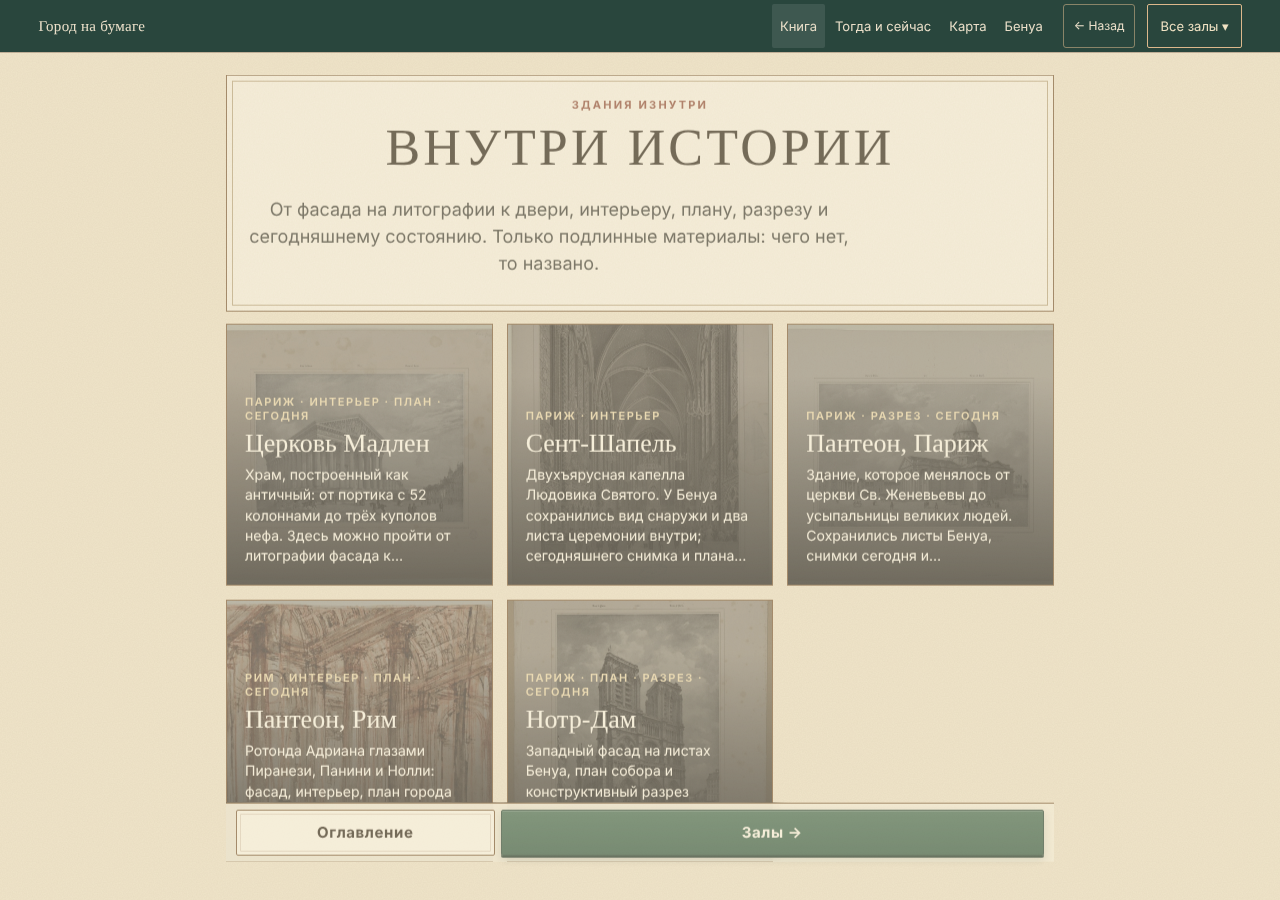
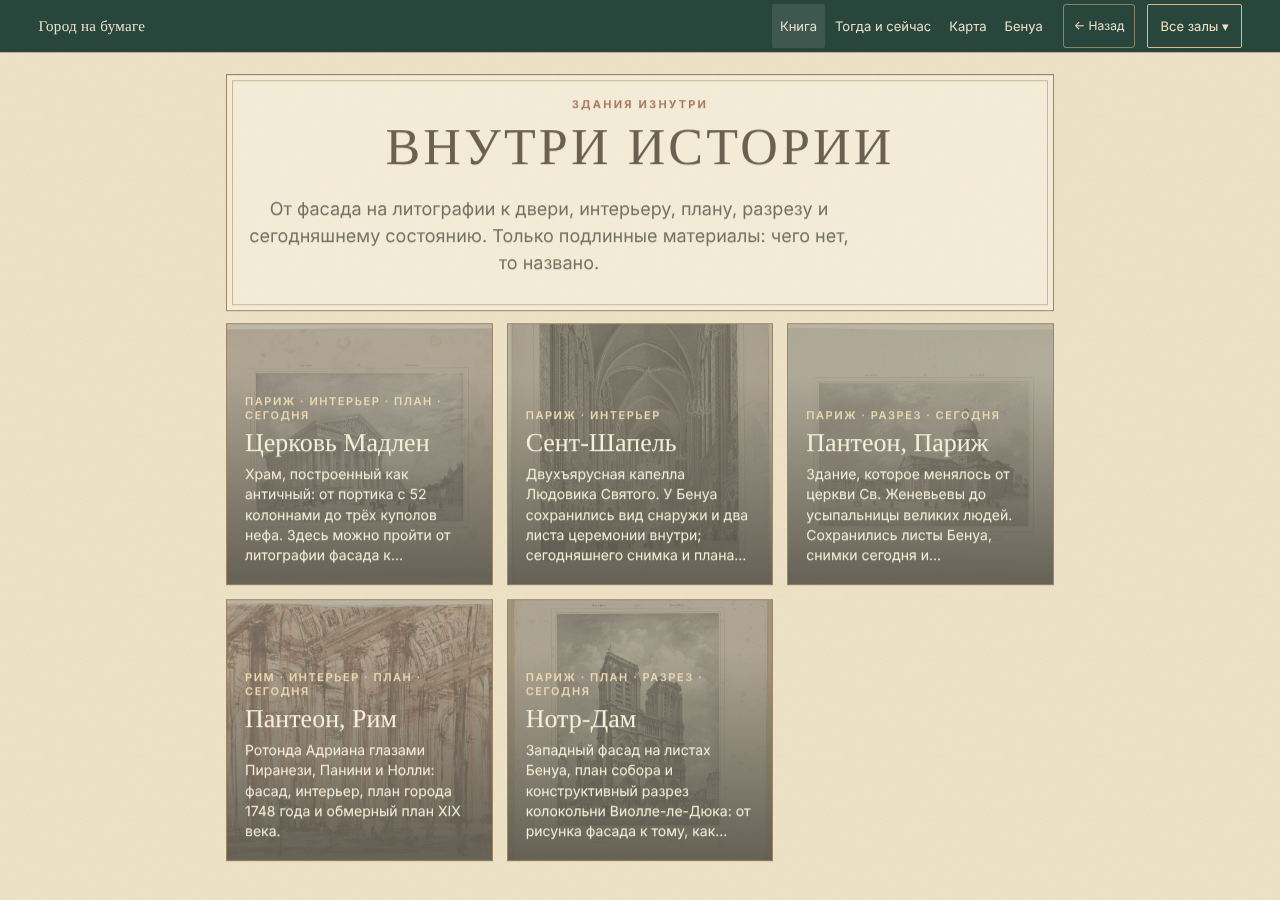
Three illustrated stories (scenes, dialogue, biography of a building) from record-only text; tests; docs
Claude-Session: https://claude.ai/code/session_01LdHt8Et5Uy4nRGp7UuZQir

diff --git a/book/inside.js b/book/inside.js
@@ -17,7 +17,9 @@
     const cover = (b) => { const w = g.by.get(b.facade[0]); return w ? w.i : (b.extras[0] || b.plan[0] || {}).i; };
     B.app().innerHTML = `<div class="page-enter"><section class="chead compact"><p class="eyebrow">Здания изнутри</p><h1>Внутри истории</h1><p class="lede">От фасада на литографии к двери, интерьеру, плану, разрезу и сегодняшнему состоянию. Только подлинные материалы: чего нет, то названо.</p></section>
       <div class="exlist">${d.buildings.map((b) => `<a class="exhall" href="#/inside/${E(b.id)}"><img src="${E(cover(b))}" alt="" loading="lazy"><span class="cap"><span class="where">${E(b.city)} · ${[b.interior.length + b.extras.length ? "интерьер" : "", b.plan.length ? "план" : "", b.section.length ? "разрез" : "", b.modern.length ? "сегодня" : ""].filter(Boolean).join(" · ") || "фасад"}</span><b>${E(b.title)}</b><span class="hook">${E(B.cut(b.lede, 130))}</span></span></a>`).join("")}</div>
+      <h2>Истории</h2><div class="exlist" id="storyList"></div>
       ${B.dock({ href: "#/halls", t: "Залы" }, { href: "#/", t: "Оглавление" })}</div>`;
+    try { const S = await loadStories(); document.getElementById("storyList").innerHTML = S.stories.map((x) => { const f = (x.scenes && x.scenes[0] && x.scenes[0].work) || (x.turns && x.turns[0].work) || (x.pieces && x.pieces[0].work); const w = g.by.get(f); return `<a class="exhall" href="#/story/${E(x.id)}"><img src="${E(w ? w.i : "")}" alt="" loading="lazy"><span class="cap"><span class="where">${E(x.city)} · ${{ scenes: "сцены", dialogue: "диалог", biography: "биография здания" }[x.layout]}</span><b>${E(x.title)}</b><span class="hook">${E(B.cut(x.lede, 120))}</span></span></a>`; }).join(""); } catch (e) { /* stories are optional */ }
   }
 
   function journey(b) {
@@ -58,5 +60,27 @@
     wireDoor();
     document.querySelectorAll("[data-go]").forEach((a) => a.addEventListener("click", (e) => { e.preventDefault(); const t = document.getElementById(a.dataset.go === "today" ? "today" : a.dataset.go); if (t && t.scrollIntoView) t.scrollIntoView({ behavior: "smooth", block: "start" }); }));
   }
-  Object.assign(B.routes, { inside: (arg) => (arg ? viewBuilding(arg) : viewList()) });
+
+  /* three illustrated stories, three compositions */
+  let ST = null;
+  const loadStories = () => ST || (ST = fetch("stories.json").then((r) => r.json()));
+  const resolve = (it, g, d) => {
+    if (it.work) { const w = g.by.get(it.work); return w && { i: w.i, th: w.th, w: w.w, h: w.h, title: ruTitle(w), sub: `${String(w.a).split(";")[0].replace(/\s*\(.*$/, "")}${w.d ? " · " + w.d : ""}`, credit: `${w.m} · ${w.r}`, link: "#/art/" + w.id }; }
+    const b = d.buildings.find((x) => x.id === (it.extra || it.modern || {}).building); if (!b) return null;
+    if (it.extra) { const pool = b.extras.concat(b.plan, b.section).filter((x) => !it.extra.kind || x.kind === it.extra.kind), x = pool[it.extra.n || 0]; return x && { i: x.i, title: x.caption, sub: x.credit, credit: x.licence, link: null }; }
+    const m = b.modern[it.modern.n || 0]; return m && { i: m.i, title: m.caption, sub: m.credit, credit: m.licence, link: null };
+  };
+  const plate = (x, cls = "") => x ? `<figure class="exfig insfig ${cls}">${x.link ? `<a class="eximg" href="${E(x.link)}">` : '<div class="eximg">'}<img src="${E(x.i)}" alt="${E(x.title)}" loading="lazy">${x.link ? "</a>" : "</div>"}<figcaption class="excap"><b>${E(x.title)}</b><span>${E(x.sub)}</span><span class="small">${E(x.credit)}</span></figcaption></figure>` : "";
+  async function viewStory(id) {
+    let S, g, d; try { [S, g, d] = await Promise.all([loadStories(), B.loadGallery(), load()]); } catch (e) { return B.notFound(); }
+    const st = S.stories.find((x) => x.id === id); if (!st) return B.notFound();
+    B.setTitle(st.title); B.crumbs([{ t: "Книга", href: "#/" }, { t: "Внутри истории", href: "#/inside" }, { t: st.title }]);
+    let body = "";
+    if (st.layout === "scenes") body = st.scenes.map((s, n) => { const x = resolve(s, g, d); return x ? `<section class="scene" style="--n:${n}"><p class="eyebrow">${E(s.kicker)}</p>${plate(x, "sceneimg")}</section>` : ""; }).join("");
+    else if (st.layout === "dialogue") body = `<div class="dialog">${st.turns.map((t) => { const x = resolve(t, g, d); return x ? `<div class="turn ${t.side}">${plate(x)}</div>` : ""; }).join("")}</div>`;
+    else body = `<ol class="bio">${st.events.map((e, n) => `<li class="bioev"><span class="when">${E(e.date)}</span><p>${E(e.text)}</p><a class="src" href="${E(B.safe(e.source))}" target="_blank" rel="noopener">${E(e.source_name)} ↗</a>${st.pieces.filter((p) => p.after === n).map((p) => `<div class="piece">${plate(resolve(p, g, d))}<p class="small">${E(p.label)}</p></div>`).join("")}</li>`).join("")}</ol>`;
+    const idx = S.stories.indexOf(st), nx = S.stories[idx + 1], pv = S.stories[idx - 1];
+    B.app().innerHTML = `<div class="page-enter story story-${E(st.layout)}"><section class="chead compact"><p class="eyebrow">${E(st.city)} · история</p><h1>${E(st.title)}</h1><p class="lede">${E(st.lede)}</p></section>${body}<p class="small closing">${E(st.closing)}</p>${B.dock(nx ? { href: "#/story/" + nx.id, t: nx.title, small: "Следующая история" } : { href: "#/inside", t: "Здания" }, pv ? { href: "#/story/" + pv.id, t: pv.title } : { href: "#/inside", t: "Здания" })}</div>`;
+  }
+  Object.assign(B.routes, { inside: (arg) => (arg ? viewBuilding(arg) : viewList()), story: viewStory });
 })();

diff --git a/tests/browser/qa_inside.js b/tests/browser/qa_inside.js
@@ -16,7 +16,7 @@ const check = (name, ok, detail = "") => { results.push(ok); console.log(`${ok ?
     const loaded = (sel) => page.waitForFunction((s) => { const a = [...document.querySelectorAll(s)]; return a.length > 0 && a.every((i) => i.complete && i.naturalWidth > 0); }, sel, { timeout: 20000 });
     await page.goto(base + "#/inside", { waitUntil: "domcontentloaded" });
     await page.waitForSelector(".exhall");
-    check(`${v.name}: five buildings are listed`, (await page.locator(".exhall").count()) === 5); await shot("20-inside-list");
+    check(`${v.name}: five buildings are listed`, (await page.locator(".exlist:not(#storyList) .exhall").count()) === 5); await shot("20-inside-list");
     await page.goto(base + "#/inside/madeleine", { waitUntil: "domcontentloaded" });
     await page.waitForSelector("#doorStage");
     await page.locator("#facade img").first().evaluate((i) => i.scrollIntoView());
@@ -42,6 +42,19 @@ const check = (name, ok, detail = "") => { results.push(ok); console.log(`${ok ?
     await page.waitForSelector("#plan");
     await page.locator("#plan").scrollIntoViewIfNeeded(); await loaded("#plan img");
     check(`${v.name}: Roman Pantheon has facade views, Panini interior, two plans`, (await page.locator("#facade .rt").count()) >= 3 && (await page.locator("#plan .insfig").count()) === 2 && (await page.locator("#interior .insfig").count()) === 1);
+    await page.goto(base + "#/inside", { waitUntil: "domcontentloaded" });
+    await page.waitForSelector("#storyList .exhall");
+    check(`${v.name}: three stories with three different compositions are offered`, (await page.locator("#storyList .exhall").count()) === 3);
+    for (const [sid, sel, min] of [["prazdniki-venetsii", ".scene .sceneimg img", 5], ["dialog-panteon", ".turn img", 6], ["biografiya-madlen", ".bioev", 7]]) {
+      await page.goto(base + "#/story/" + sid, { waitUntil: "domcontentloaded" });
+      await page.waitForSelector(sel);
+      await page.waitForFunction(([s, m]) => document.querySelectorAll(s).length >= m, [sel, min]);
+      if (sid !== "biografiya-madlen") { await page.locator(sel).first().evaluate((i) => i.scrollIntoView()); await loaded(sel + ":nth-of-type(1)").catch(() => {}); }
+      check(`${v.name}: story ${sid} renders its composition`, (await page.locator(sel).count()) >= min);
+      if (sid === "dialog-panteon") await shot("25-story-dialogue");
+      if (sid === "biografiya-madlen") { check(`${v.name}: biography events all carry a source link`, (await page.locator(".bioev .src[href^=http]").count()) === 7); await shot("26-story-biography"); }
+      if (sid === "prazdniki-venetsii") await shot("27-story-scenes");
+    }
     check(`${v.name}: no horizontal scroll and no page errors`, (await page.evaluate(() => document.documentElement.scrollWidth <= innerWidth + 4)) && errs.length === 0, errs.join("|"));
     await ctx.close();
   }

diff --git a/book/book.css b/book/book.css
@@ -347,3 +347,8 @@ body.showmode .dock,body.showmode .museum-nav,body.showmode header,body.showmode
 .door img{position:absolute;inset:0;width:100%;height:100%;object-fit:cover;will-change:transform,opacity}.door .dA{transform-origin:var(--dx) var(--dy)}.door .dB{opacity:0}
 .dmark{position:absolute;left:var(--dx);top:var(--dy);width:14px;height:14px;margin:-7px 0 0 -7px;border:2px solid #fff9;border-radius:50%;pointer-events:none;animation:dm 1.6s ease-in-out infinite}@keyframes dm{50%{transform:scale(1.8);opacity:.2}}
 @media(prefers-reduced-motion:reduce){.dmark{animation:none}}
+/* stories */
+.scene{margin:28px 0;min-height:60vh;display:flex;flex-direction:column;justify-content:center}.scene .sceneimg img{max-height:78vh;object-fit:contain;margin:0 auto;display:block}.scene .sceneimg{background:#1d1c19;color:#f4ead2;padding:10px}.scene .excap{color:#f4ead2}
+.dialog{display:grid;gap:18px;margin:18px 0}.turn{max-width:92%}.turn.r{margin-left:auto}.turn.l{margin-right:auto}@media(min-width:820px){.dialog{grid-template-columns:1fr 1fr;gap:26px 20px}.turn{max-width:none}.turn.r{margin-top:48px}}
+.bio{list-style:none;margin:16px 0;padding:0 0 0 18px;border-left:3px solid var(--lt-sepia)}.bioev{position:relative;margin:0 0 22px;padding-left:12px}.bioev::before{content:"";position:absolute;left:-26px;top:6px;width:12px;height:12px;border-radius:50%;background:var(--lt-brick)}
+.bioev .when{font:600 12px var(--lt-sans);letter-spacing:.12em;text-transform:uppercase;color:var(--lt-brick)}.bioev p{margin:2px 0 4px}.piece{margin:12px 0;max-width:520px}.closing{margin:20px 0}

diff --git a/tools/world/build_stories.py b/tools/world/build_stories.py
@@ -1,0 +1,40 @@
+# ruff: noqa: E501
+"""Three illustrated stories with different compositions. Text comes only from the records (title, date, technique, museum) and from
+the sourced place story of the book; no event is added from memory."""
+from __future__ import annotations
+
+import json
+from pathlib import Path
+
+BOOK = Path(__file__).resolve().parents[2] / "book"
+
+
+def main() -> int:
+    inside = {b["id"]: b for b in json.loads((BOOK / "inside.json").read_text(encoding="utf-8"))["buildings"]}
+    places = {p["id"]: p for p in json.loads((BOOK / "places.json").read_text(encoding="utf-8"))["places"]}
+    mad = places["madeleine"]
+    rome = inside["pantheon-rome"]
+    S = [
+        {"id": "prazdniki-venetsii", "layout": "scenes", "title": "Праздники Венеции: пять сцен", "city": "Венеция",
+         "lede": "Площадь, набережная и лагуна в дни торжеств: четыре листа серии праздников дожей по Каналетто и сцена площади Франческо Гварди. Подписи составлены по записям музеев.",
+         "scenes": [{"work": "ex-nga-139341", "kicker": "Сцена 1"}, {"work": "ex-nga-103816", "kicker": "Сцена 2"}, {"work": "ex-nga-47091", "kicker": "Сцена 3"}, {"work": "oa-nga-103851", "kicker": "Сцена 4"}, {"work": "ex-met-338925", "kicker": "Сцена 5 · другой мастер"}],
+         "closing": "Первые четыре листа хранит Национальная галерея искусства, пятый Метрополитен. Название места и дата в каждой подписи взяты из записи музея; кто именно гравировал лист по рисунку, смотрите в записи."},
+        {"id": "dialog-panteon", "layout": "dialogue", "title": "Диалог мастеров: Пантеон", "city": "Рим",
+         "lede": "Один и тот же храм на гравюре, на картине, на плане и на снимке сегодня.",
+         "turns": [{"work": "ex-met-348799", "side": "l"}, {"extra": {"building": "pantheon-rome", "kind": "interior-painting"}, "side": "r"}, {"work": "oa-met-363427", "side": "l"}, {"work": "oa-cma-v3-104365", "side": "r"},
+                   {"extra": {"building": "pantheon-rome", "kind": "plan", "n": 0}, "side": "l"}, {"modern": {"building": "pantheon-rome", "n": 0}, "side": "r"}],
+         "closing": "Внутри истории: " + rome["lede"]},
+        {"id": "biografiya-madlen", "layout": "biography", "title": "Биография здания: Мадлен", "city": "Париж",
+         "lede": mad["lede_ru"],
+         "events": [{"date": f["date"], "text": f["text_ru"], "source": f["source_url"], "source_name": f["source_name"]} for f in mad["facts"]],
+         "pieces": [{"after": 4, "work": "bs-parismusees-320295651", "label": "Фасад на листе серии «Vues de Paris»"}, {"after": 4, "work": "bs-parismusees-320295653", "label": "Интерьер на листе № 42"},
+                    {"after": 4, "extra": {"building": "madeleine", "kind": "plan"}, "label": "План церкви (чертёж из собрания Paris Musées; дата в источнике не указана)"}, {"after": 6, "modern": {"building": "madeleine", "n": 1}, "label": "Неф сегодня"}],
+         "closing": "Что неизвестно: " + " ".join(mad["unknowns_ru"][:2])},
+    ]
+    (BOOK / "stories.json").write_text(json.dumps({"version": 1, "stories": S}, ensure_ascii=False, separators=(",", ":")), encoding="utf-8")
+    print([s["id"] for s in S])
+    return 0
+
+
+if __name__ == "__main__":
+    raise SystemExit(main())

diff --git a/tests/test_inside.py b/tests/test_inside.py
@@ -24,3 +24,15 @@ def test_inside_dossiers_are_real_and_honest():
         assert b["missing"], b["id"]
     mad = next(b for b in d if b["id"] == "madeleine")
     assert mad["journey"]["door"] and len(mad["modern"]) == 2 and mad["plan"]
+
+
+def test_stories_use_existing_works_and_sourced_events():
+    st = json.loads((BOOK / "stories.json").read_text(encoding="utf-8"))["stories"]
+    ids = {w["id"] for w in json.loads((BOOK / "gallery.json").read_text(encoding="utf-8"))["works"]}
+    assert {s["layout"] for s in st} == {"scenes", "dialogue", "biography"}
+    for s in st:
+        for x in s.get("scenes", []) + s.get("turns", []) + s.get("pieces", []):
+            if "work" in x:
+                assert x["work"] in ids, x
+        for e in s.get("events", []):
+            assert e["source"].startswith("https://") and e["text"], e

diff --git a/docs/consilium/GRAND_SYNTHESIS_20261128.md b/docs/consilium/GRAND_SYNTHESIS_20261128.md
@@ -112,3 +112,6 @@
 Взято из Gemini V10 только то, что подтверждено источниками (планы, разрезы, документированные интерьеры). **Не включено:** параметрические 3D-реконструкции Gemini (в самом описании «Отделка мрамора процедурная, не лазерный скан»), многоугольники «помещений» поверх планов (схематические, не привязаны к чертежу), 2.5D-параллакс (глубина достраивается). Нет glTF/фотограмметрии: подходящих открытых моделей в фонде не найдено.
 **Лёгкий старт:** главная читает `book/home.json` (30 КБ, 65 работ) вместо всего фонда (`gallery.json` 1,1 МБ, 130 КБ в gzip); галерея и залы по-прежнему грузят полный фонд при открытии; изображения ленивые, миниатюры 360 px. Тесты: `qa_inside.js` (18), `qa_gallery.js` (90), `qa_angles.js` (16), `test_inside.py`.
 **Не сделано из наряда IMMERSION:** прогулки по Парижу 1878 как законченные маршруты; «Один день в прошлом», «Биография здания» как повествования (досье зданий их заготовка), «Диалог художников», «Кабинет редкостей»; целевой поиск Бенуа по каталогам и OCR подписей; Rome dans sa grandeur и Bretagne как альбомы, автоимпорт IIIF-манифестов книг; авторы Доре, Робертс, Аллом, Тёрнер, Россини, Атже, Прокудин-Горский, Гау, Ухтомский, Премацци (в имеющихся данных их почти нет, нужен новый сбор); визуальный поиск (DINOv2, SigLIP, CLIP); хроно-палитра; аудит Museum MCP и 48 skills; Service Worker и шардирование атласа; независимое ревью на 15–20 минут; веб-предпросмотр для iPhone/iPad (по согласованию).
+
+### Три иллюстрированные истории (`#/inside`, ниже зданий; `tools/world/build_stories.py` → `book/stories.json`)
+Три разные композиции: **«Праздники Венеции: пять сцен»** (полноэкранные сцены: четыре листа серии праздников дожей по Каналетто и сцена площади Гварди, NGA и Метрополитен), **«Диалог мастеров: Пантеон»** (чередующиеся колонки: гравюры Пиранези, интерьер Панини, гравюра Cleveland, план Нолли, снимок 2025), **«Биография здания: Мадлен»** (лента времени из семи событий с источниками, в неё вставлены листы фасада и интерьера, план и снимок нефа). Текст берётся только из записей музеев и из истории места с источниками; событий «по памяти» не добавлено. «Один день в прошлом» в буквальном виде не сделан: в фонде нет документированной последовательности одного дня, подписано как «сцены праздников». Тесты `qa_inside.js` (28), `test_inside.py`.
